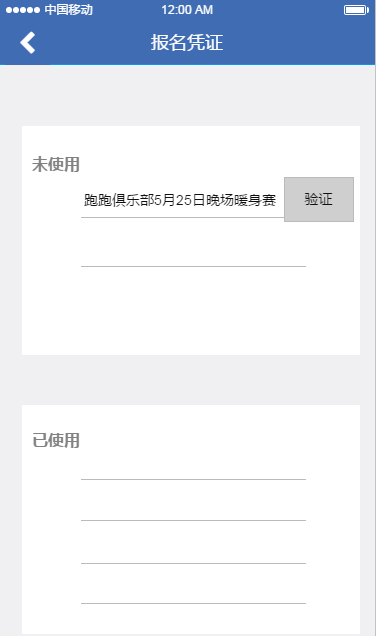
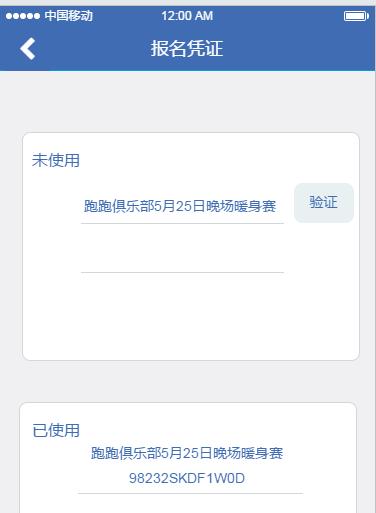
v1.1

diff --git a/赛事宝设计说明.md b/赛事宝设计说明.md
@@ -6,15 +6,272 @@
 
 **2 功能模块**
 
-用户：赛事展示模块、赛事日历（查询）模块、支付模块、用户注册／登陆模块、gps地图模块、门票验证模块、营销模块
+用户：赛事展示模块、赛事日历（查询）模块、支付模块、用户注册／登陆模块、gps地图模块、门票验证模块、营销模块、积分模块。商城模块、排行榜模块（2.0）
 
-商家：信息录入模块、信息查询模块、门票核销模块
+商家：信息录入模块、信息查询模块、门票核销模块、财务模块（竞技之旅往来账务）
 
-** 3 TableBar 详解**
+**3 TableBar 详解**
 
-![Alt text](./pic/TableBar.png)
+demo url:
+https://modao.cc/app/a33f8b5de85cb8486f51cd68f1bc872f90ad5c5c
+password:123465
+
+![Alt text](./pic/tablebar.png)
+
 
 分页栏分为推荐、俱乐部、赛事日历、我的（或我的账户）、更多五栏
 
 推荐栏：展示当月各类赛事，国际大赛、国内大赛、俱乐部大赛（不含每日常规比赛）
-排序方式默认按照国际、国内、俱乐部；程序开发时设计为可自定义顺序，便于市场灵活运作。
+排序方式默认按照国际、国内、俱乐部；<font color=red> 程序开发时设计为可自定义顺序，便于市场灵活运作。
+
+俱乐部栏：默认显示全国所有俱乐部当日比赛信息
+左上角可根据地区选择，右上角可根据俱乐部名称选择。
+
+赛事日历栏：可按月份查询国际、国内大型赛事（俱乐部举办的大赛包含在国内大型赛事内）、系列赛事（赛事类别为国际或国内大赛，区别为此类赛事为玩家最关注或广告赞助多）
+
+我的栏：查询我的相关信息，包括报名凭证、注册信息、积分信息等
+
+更多：为app后期开发预留，目前可查询的栏目为俱乐部介绍及公司信息栏
+
+**3.1 TableBar-推荐栏详细说明**
+
+listview  组件
+
+设计图
+
+![Alt text](./pic/推荐-2.png)
+
+image=赛事大图
+
+T1 赛事种类icon   分为国际、国内、俱乐部 ，国际用W，国内用IN，俱乐部用C
+
+T2 赛事种类文字描述   具体为 ：国际 、国内、俱乐部
+
+T3 赛事名称  中英文字符可能含标点符,字长设计保留最大长度12
+
+T4 赛事时间icon    固定icon
+
+T5 赛事时间文字
+
+**点击图片进入赛事介绍**
+
+
+
+设计图
+
+![Alt text](./pic/赛事介绍-2.png)
+
+Saishi-Image-logo = 赛事的logo图片，统一风格设计
+
+Saishi-Text-Intrudt= 赛事的详情介绍
+
+Saishi-Text-Name= 具体赛事的名称   
+
+赛事详情=固定字段
+
+**点击赛事详情进入赛事详情页面★（重点）**
+
+
+玩家可查询赛事中具体比赛的信息（通常此类比赛除主赛外还有一系列边赛）
+查询赛事结构表、赛事结果；可报名比赛，可按日期查看所有当前系列赛事
+<font color=red>★ 某些大型赛事市场部未谈妥代理且需要展示时，“参加赛事”按钮为灰色，即玩家无法报名，运维人员在录入赛事时设定
+
+设计图
+
+![Alt text](./pic/赛事详情-2.png)
+
+Saishi-Image-L= 赛事大图   同推荐页
+Calender =赛事日历 可按日期查看该赛事信息，如6月20日-27日 ，超过该时段无法选择，点击设定为灰色
+Saishi-Text-Name= 具体赛事的名称  需加上编号#x（x为数字）
+Saishi-Text-type=赛事类型 目前暂为 hold'em 德州扑克，后期还有梭哈、奥马哈等，最大字长预留7.
+<font color=red>Buy-in = 买入费用  货币类型可能有人民币、美元、韩元等，若能自动计算最好，前期可以自己手动添加，如买入100w韩元，备注1w人民币
+
+Time-Open =比赛开放注册时间
+Time-Close=比赛关闭注册时间      
+Structure-Table = 比赛结构表 （可点击项）
+
+Sign-up =参加赛事  <font color=red>(大多比赛截至报名时间非比赛开始时间，通常为比赛开始后的第几个盲注级别，及参加赛事的状态为不能报名，无法点击态应根据该比赛的赛事结构表中的停止注册规则设定。实际在使用时，可能俱乐部常规比赛会遇到较多，程序设计时注意停止注册时间，参加赛事状态亦需改变为无法点击)
+
+Result= 比赛结果 <font color=red>（ ★  比赛未开始前显示为灰色，不可点击查询态，比赛结束后，运维人员录入信息，状态为可点击查询，需预留修改接口）
+
+**比赛结构表**
+
+![Alt text](./pic/比赛结构表.png)
+
+玩家可查询比赛的详细结构及奖金结构。不同的比赛，结构可能不同，开发时可预设一些模版，需要留可编辑录入接口。此表信息为展示用，可不和其他信息想关联。
+
+**参加赛事 页面（报名）**
+
+![Alt text](./pic/参加赛事-new.png)
+
+点击参加赛事跳转到报名页面，此页面在点击购票时判断用户是否登录。
+
+case1： 已登录
+购票数量可点击增加
+
+
+进一步点击（选微信支付）：
+跳转到服务端支付
+
+
+
+
+case2：未登陆，显示如下
+
+![Alt text](./pic/参加赛事-2.png)
+
+点马上登陆 跳转到登陆页面
+
+**比赛结果展示**
+
+![Alt text](./pic/比赛结果.png)
+
+运维人员在赛事完毕后录入，表暂为4列名次、姓名、奖金、积分，最大设计6列，保留2列。 积分会在排名系统中体现
+★ 若针对国内的赛事，可能奖金以其他替代方式出现
+
+**3.2俱乐部分页栏详细说明**
+
+![Alt text](./pic/俱乐部-首页.png)
+
+点击TableBar 俱乐部路由到俱乐部分页栏，默认显示全国所有俱乐部当日比赛信息
+左上角可根据地区选择，右上角可根据俱乐部名称选择。
+
+设计图
+
+![Alt text](./pic/俱乐部-2.png)
+
+club-image、赛事详情、参加赛事 为可点击类
+
+**club-image 点击效果**
+
+![Alt text](./pic/俱乐部今日详情.png)
+
+跳转到俱乐部今日赛事详情页面，同左上角直接选择俱乐部跳转页面相同
+展示俱乐部当日比赛、明日赛事和昨日俱乐部获奖情况（<font color=red>此表为营运人员次日手动录入），表和2.0排名系统关联。
+<font color=red>注意事项：报名截至时间过后，参加赛事按钮将变为不可点击，颜色为灰色
+
+页面有3个可点击项：俱乐部logo、地图、电话
+点击地图调用高德地图、电话点击为拨出
+
+**俱乐部logo点击效果**
+
+跳转到俱乐部介绍页面
+
+![Alt text](./pic/俱乐部介绍.png)
+
+此页面的图集、地图、电话 为可点击项
+地图调用高德地图、电话点击为拨出
+
+**赛事详情点击效果**
+同前比赛结构表
+
+**参加赛事点击效果**
+同前参加赛事 页面（报名）
+
+**3.3 赛事日历栏详细说明**
+
+
+用户可在此页面按月份查询国际、国内（含俱乐部大赛）、系列赛事（关注度高的多站赛事）的相关情况。 历史记录保留一年。默认点击显示国际赛事栏及当月月份。
+当月赛事场数为系统自动统计显示
+
+<font color=red>  注意,国际赛事的验证方式和俱乐部日常赛事验票方式不同，俱乐部
+验票为支付成功后的二维码或序号，国际赛事在点击购票钱程序需要先判断用户信息是否输入完整，包含（真实姓名、昵称、手机、邮箱、身份证照片、护照照片、大头照），若信息不完成，提示弹框请录入完整信息并跳转至录入页面, 此信息查询页面在“我的账户-信息详情”中可查看。
+
+
+国际赛事展示栏分成2类：
+主流赛事及谈妥合作的赛事以大图显示，其他以小图显示。小图的详情相对简单，不提供结构表结果等查询，示例
+
+![Alt text](./pic/赛事详情-小图.png)
+
+只提供时间、地点、名称、买入费用列
+
+国内赛事不区分，都为大图显示
+
+**系列赛事栏**
+
+系列赛事点击如下：
+
+![Alt text](./pic/系列赛事.png)
+
+**系列赛事概览**
+
+![Alt text](./pic/系列赛事详情-1.png)
+
+展示某个系列赛事官方提供的信息。 下一站比赛时间，地点等,点击图片进入赛事介绍
+
+**系列赛事详情**
+
+同赛事详情
+
+**3.4 我的账户分页栏详细说明**
+
+![Alt text](./pic/我的账户.png)
+
+
+展示用户相关信息，包含会员登录、报名凭证、我的信息、优惠券（可在支付时抵扣）、我的订单、我的积分（后期积分换礼品用）、我的排行榜（2.0实现，细分为n种类型，如城市排行，俱乐部排行、男女选手排行等）、积分商城（2.0实现，兑换积分）模块
+
+**会员登陆**
+
+会员登陆说明：左边的icon 初期为固定图标，后期用户可选择，若用户未登陆，显示点击登陆，跳转到登陆页面，反之显示已登陆。
+
+用户注册登陆
+点击进入
+
+![Alt text](./pic/登陆.png)
+
+通过手机号/用户名 +密码+验证码 登陆
+
+**会员注册**
+
+![Alt text](./pic/注册.png)
+
+
+需要手机验证码对接平台
+赛事宝服务条款为弹窗，隐私保护、游戏规则：注册真实姓名，否则优惠券及商城兑换不予通过等说明
+
+**忘记密码**
+
+通过注册信息找回
+
+**报名凭证**
+
+报名凭证：用户成功报名后获取的序列号（二维码），点击可查看凭证历史
+
+![Alt text](./pic/报名凭证.png)
+
+分为已使用、未使用、已过期三种状态，未使用的点击验证显示序列号（二维码），商家验证后，状态改变；
+已使用可查询7天内的验证码
+
+★ 需要设计商家验证系统
+
+**我的信息**
+
+显示用户注册时填写的相关信息，用户可以补充完善自己的信息，完成后不可修改，添加按钮隐藏。
+
+![Alt text](./pic/我的信息.png)
+
+**优惠卷**
+
+<font color=red> 目前优惠卷为微信商户后台发卡，用户的优惠卷在微信账户－卡卷里可查看，如何联动？
+
+**我的订单**
+
+显示用户已报名的订单，可同商家订单数据，含赛事时间、名称、金额
+
+**我的积分**
+
+<font color=red> 用户每支付10人民币，积1分，积分可在积分商城兑换相应礼品。初期积分商城在微信公众号的微店体现，积分兑换功能为运维人员手动兑换。程序设计时需预留积分添改接口
+
+**3.5 更多分页栏说明**
+
+
+后期版块增加时预留，目前俱乐部介绍
+
+![Alt text](./pic/俱乐部all.png)
+
+右上为俱乐部城市划分
+点击俱乐部详情进入俱乐部介绍，同前俱乐部logo点击效果
+
+**联系我们**
+
+![Alt text](./pic/联系我们.png)
